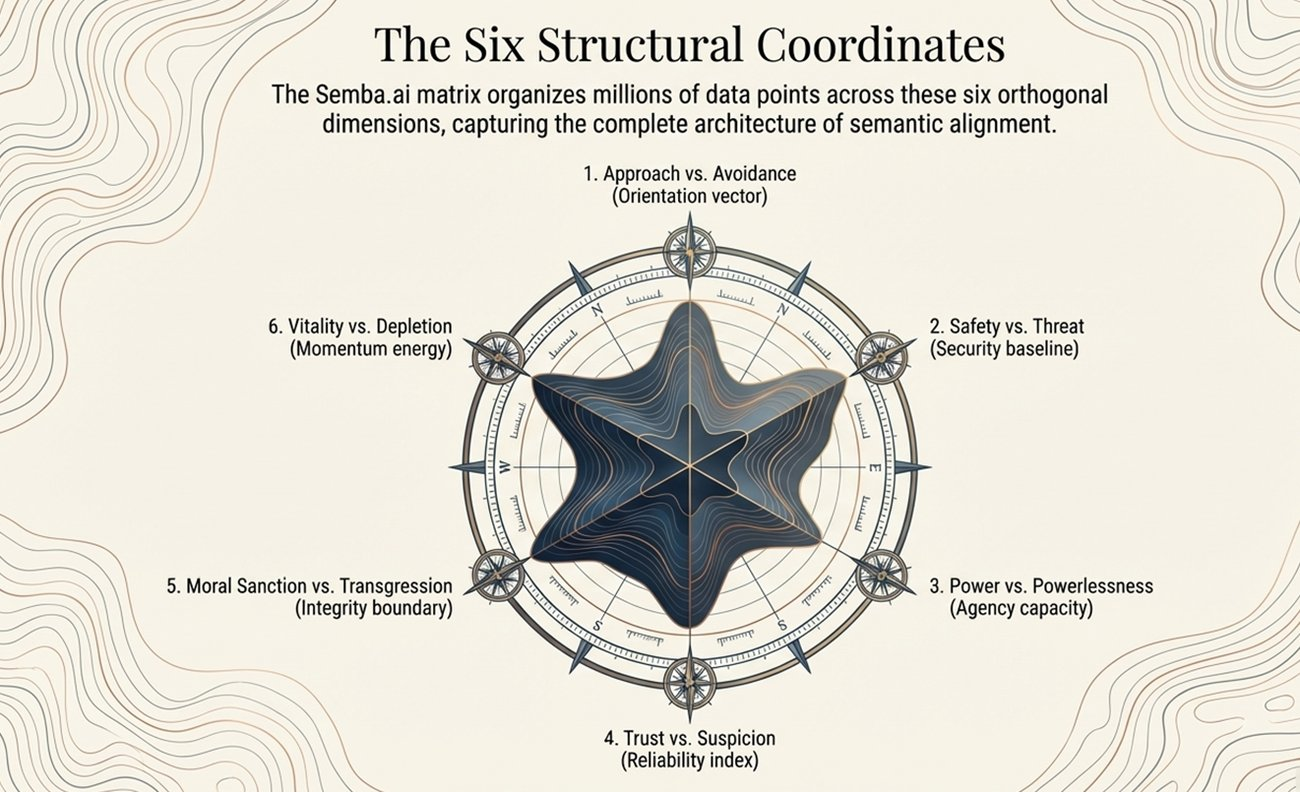
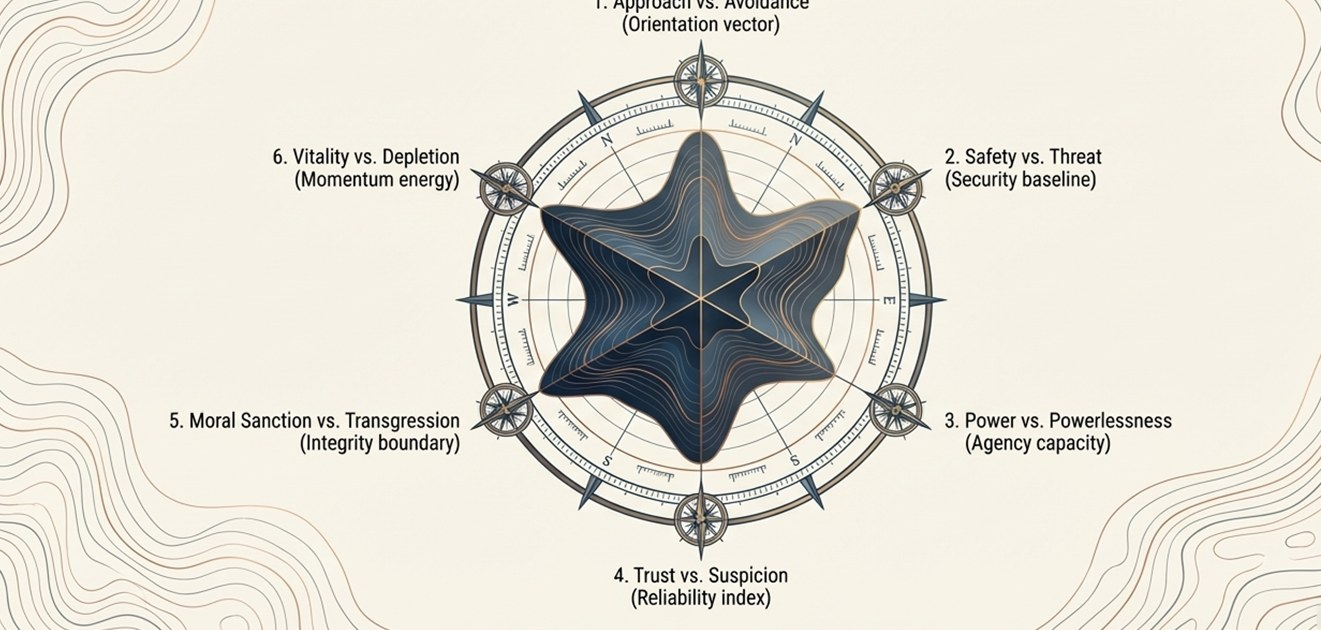
Add files via upload

diff --git a/privacy.html b/privacy.html
@@ -6,9 +6,6 @@
 <title>Privacy Statement | Cognitif Group Limited</title>
 <meta name="description" content="Cognitif Group Limited's privacy statement.">
 <link rel="icon" href="assets/img/logo.png">
-<link rel="preconnect" href="https://fonts.googleapis.com">
-<link rel="preconnect" href="https://fonts.gstatic.com" crossorigin>
-<link href="https://fonts.googleapis.com/css2?family=Fraunces:opsz,wght@9..144,500;9..144,600&family=Inter:wght@400;500;600;700&display=swap" rel="stylesheet">
 <link rel="stylesheet" href="assets/css/style.css">
 </head>
 <body>
@@ -36,64 +33,35 @@
     </div>
   </header>
   <section class="hero hero--tight">
+    <div class="hero-texture" aria-hidden="true"></div>
     <div class="wrap hero-inner">
       <h1>Privacy Statement</h1>
-      <p class="meta-line">Last updated: [insert date]</p>
+      <p class="meta-line">Last updated: 4 July 2026</p>
     </div>
   </section>
 
   <section>
     <div class="wrap legal">
-      <div class="notice">
-        <strong>Before publishing:</strong> replace the [insert date] placeholder above, and confirm the retention and cookie sections below once those decisions are finalised.
-      </div>
-
       <h2>1. Who we are</h2>
-      <p>Cognitif Group Limited ("Cognitif Group", "we", "us") is the data controller for personal data collected through this website and our services. We are a company registered in England &amp; Wales, Company No. 17154680, registered office 128 City Road, London, United Kingdom, EC1V 2NX.</p>
-      <p>Cognitif Group is registered with the Information Commissioner's Office (ICO) under registration number ZC 173064.</p>
+      <p>Cognitif Group Limited ("Cognitif Group", "we", "us") is a company registered in England &amp; Wales, Company No. 17154680, registered office 128 City Road, London, United Kingdom, EC1V 2NX. We are registered with the Information Commissioner's Office (ICO) under registration number ZC 173064.</p>
 
-      <h2>2. Legitimate use</h2>
-      <p><strong>Lawful basis.</strong> Where we rely on legitimate interests as our lawful basis under UK GDPR Article 6(1)(f), we have assessed that our interest in operating and improving our services is not overridden by the interests or fundamental rights of the individuals concerned. Where we process personal data under a contract, with consent, or to meet a legal obligation, we rely on the corresponding basis under Article 6 instead.</p>
-      <p><strong>Legitimate use of our services.</strong> Our services are built to produce aggregate, population-level measurement, not to identify, profile, or make decisions about specific individuals. Clients and users may only use our services for lawful, legitimate purposes consistent with this design, and must not attempt to use them, or combine their output with other data, to re-identify or single out an individual.</p>
+      <h2>2. This website does not collect personal data</h2>
+      <p>This website does not use cookies, does not run analytics or tracking scripts, and does not load fonts or other resources from third-party services. It does not use forms. No personal data is collected, stored, or transmitted by this website.</p>
+      <p>If you choose to contact us by phone or email using the details on this site, that exchange happens directly between you and us through your own phone or email provider, on the terms of that provider &mdash; it is not something this website collects or stores.</p>
 
-      <h2>3. What data we collect</h2>
-      <ul>
-        <li>Contact details you give us directly: name, email address, organisation, and the content of your message.</li>
-        <li>Technical data collected automatically when you visit this website: IP address, browser type, device type, and pages visited.</li>
-      </ul>
-      <p>We do not seek to collect special category data (as defined by UK GDPR Article 9) through this website, and ask that you do not send us any in general correspondence.</p>
+      <h2>3. No sharing, no international transfers</h2>
+      <p>Because this website does not collect personal data, none is shared with any third party, and none is transferred outside the UK.</p>
 
-      <h2>4. How we use your data</h2>
-      <ul>
-        <li>To respond to enquiries and correspondence.</li>
-        <li>To operate, secure, and improve this website.</li>
-        <li>To meet our legal and regulatory obligations.</li>
-        <li>To provide our services, under the terms of the relevant client agreement.</li>
-      </ul>
+      <h2>4. Legitimate use of our services</h2>
+      <p>Our services are built to produce aggregate, population-level measurement, not to identify, profile, or make decisions about specific individuals. Clients and users may only use our services for lawful, legitimate purposes consistent with this design, and must not attempt to use them, or combine their output with other data, to re-identify or single out an individual.</p>
 
-      <h2>5. Who we share it with</h2>
-      <p>We do not sell personal data. We may share it with service providers who process data on our behalf, professional advisers, and regulators or law enforcement where we are legally required to do so. A current list of sub-processors is available on request at <a href="mailto:[email redacted]">[email redacted]</a>.</p>
+      <h2>5. Your rights</h2>
+      <p>If you contact us directly and want to know what we hold about that correspondence, or want it corrected or deleted, email <a href="mailto:[email redacted]">[email redacted]</a>. You also have the right to complain to the Information Commissioner's Office: <a href="https://ico.org.uk/make-a-complaint/" target="_blank" rel="noopener">ico.org.uk/make-a-complaint</a>, or by telephone on [phone redacted].</p>
 
-      <h2>6. International transfers</h2>
-      <p>Where any of our service providers process data outside the UK or the European Economic Area, we take steps to ensure an appropriate safeguard is in place before the transfer takes place.</p>
-
-      <h2>7. Cookies and analytics</h2>
-      <p>[Insert specific cookie names, purposes, and durations once analytics tooling is finalised.]</p>
-
-      <h2>8. Retention</h2>
-      <p>We keep personal data only for as long as necessary for the purpose it was collected for, or as required by law. [Insert specific retention periods once finalised.]</p>
-
-      <h2>9. Your rights</h2>
-      <p>Under UK GDPR, you have the right to: request access to your personal data; request correction of inaccurate data; request erasure; object to or restrict certain processing; request data portability; and withdraw consent where consent is the basis for processing. To exercise any of these rights, contact us at <a href="mailto:[email redacted]">[email redacted]</a>.</p>
-      <p>You also have the right to complain to the Information Commissioner's Office: <a href="https://ico.org.uk/make-a-complaint/" target="_blank" rel="noopener">ico.org.uk/make-a-complaint</a>, or by telephone on [phone redacted].</p>
-
-      <h2>10. Children</h2>
-      <p>Our website and services are directed at businesses and professionals. We do not knowingly collect personal data from children.</p>
-
-      <h2>11. Changes to this statement</h2>
+      <h2>6. Changes to this statement</h2>
       <p>We may update this statement from time to time. The date at the top of this page shows when it was last revised.</p>
 
-      <h2>12. Contact us</h2>
+      <h2>7. Contact us</h2>
       <p>Cognitif Group Limited, 128 City Road, London, United Kingdom, EC1V 2NX. Phone: [phone redacted]. Email: <a href="mailto:[email redacted]">[email redacted]</a>.</p>
     </div>
   </section>
@@ -103,7 +71,6 @@
       <div class="footer-grid">
         <div>
           <p class="footer-brand">Cognitif Group Limited</p>
-          <p>128 City Road<br>London, United Kingdom<br>EC1V 2NX</p>
           <p>Company No. 17154680, registered in England &amp; Wales.</p>
         </div>
         <div>

diff --git a/technology.html b/technology.html
@@ -6,9 +6,6 @@
 <title>Technology | Cognitif Group Limited</title>
 <meta name="description" content="The four-layer architecture behind Cognitif Group's Semantic Bathymetry™ Platform.">
 <link rel="icon" href="assets/img/logo.png">
-<link rel="preconnect" href="https://fonts.googleapis.com">
-<link rel="preconnect" href="https://fonts.gstatic.com" crossorigin>
-<link href="https://fonts.googleapis.com/css2?family=Fraunces:opsz,wght@9..144,500;9..144,600&family=Inter:wght@400;500;600;700&display=swap" rel="stylesheet">
 <link rel="stylesheet" href="assets/css/style.css">
 </head>
 <body>
@@ -36,6 +33,7 @@
     </div>
   </header>
   <section class="hero hero--tight">
+    <div class="hero-texture" aria-hidden="true"></div>
     <div class="wrap hero-inner">
       <span class="eyebrow">Architecture</span>
       <h1>How the platform is built</h1>
@@ -44,14 +42,6 @@
   </section>
 
   <section>
-    <div class="wrap">
-      <figure class="diagram">
-        <img src="assets/img/layer-pipeline.jpg" alt="Four-layer architecture diagram: Layer 1 Petalyx (data capture and interface), Layer 2 Ontologos (ingestion, scrubbing and NLP anchoring), Layer 3 Semba (the master datamodel and network), Layer 4 Insightvault (enterprise visualisation).">
-      </figure>
-    </div>
-  </section>
-
-  <section class="section-alt">
     <div class="wrap">
       <div class="grid grid-3">
         <div class="card">
@@ -73,16 +63,13 @@
     </div>
   </section>
 
-  <section>
+  <section class="section-alt">
     <div class="wrap">
       <div class="section-head">
         <span class="eyebrow">Layer 4</span>
         <h2>Insightvault &mdash; the chart room.</h2>
         <p class="slate">Enterprise-grade visualisation. Translates the underlying topology into dashboards for leadership teams, aggregating individual coordinates into population-level views.</p>
       </div>
-      <figure class="diagram">
-        <img src="assets/img/chartroom.jpg" alt="Illustration of an enterprise dashboard interface showing charts and a terrain visualisation, labelled Insightvault, The Chart Room.">
-      </figure>
     </div>
   </section>
 
@@ -91,7 +78,6 @@
       <div class="footer-grid">
         <div>
           <p class="footer-brand">Cognitif Group Limited</p>
-          <p>128 City Road<br>London, United Kingdom<br>EC1V 2NX</p>
           <p>Company No. 17154680, registered in England &amp; Wales.</p>
         </div>
         <div>

diff --git a/assets/css/style.css b/assets/css/style.css
@@ -2,7 +2,6 @@
 
 :root{
   --navy:      #10243F;
-  --navy-deep: #0D1B4B;
   --navy-line: #2C4568;
   --coral:     #D4785F;
   --coral-deep:#A8532F;
@@ -15,8 +14,8 @@
   --line:      #DEDBCE;
   --radius:    2px;
 
-  --font-display: "Fraunces", "Cambria", Georgia, serif;
-  --font-body: "Inter", "Calibri", Arial, sans-serif;
+  --font-display: Georgia, "Times New Roman", serif;
+  --font-body: Arial, Helvetica, sans-serif;
 
   --maxw: 1080px;
 }
@@ -140,7 +139,7 @@ hr.rule{ border:none; border-top: 1px solid var(--line); margin: 2em 0; }
 
 /* ---------- Navy panel (problem / solution / IP) ---------- */
 .panel-navy{
-  background: var(--navy-deep);
+  background: var(--navy);
   color: #F2F3FA;
   padding: 44px 40px;
   border-radius: var(--radius);

diff --git a/about.html b/about.html
@@ -6,9 +6,6 @@
 <title>About Us | Cognitif Group Limited</title>
 <meta name="description" content="About Cognitif Group Limited.">
 <link rel="icon" href="assets/img/logo.png">
-<link rel="preconnect" href="https://fonts.googleapis.com">
-<link rel="preconnect" href="https://fonts.gstatic.com" crossorigin>
-<link href="https://fonts.googleapis.com/css2?family=Fraunces:opsz,wght@9..144,500;9..144,600&family=Inter:wght@400;500;600;700&display=swap" rel="stylesheet">
 <link rel="stylesheet" href="assets/css/style.css">
 </head>
 <body>
@@ -36,6 +33,7 @@
     </div>
   </header>
   <section class="hero hero--tight">
+    <div class="hero-texture" aria-hidden="true"></div>
     <div class="wrap hero-inner">
       <h1>About Us</h1>
       <p class="lede" style="max-width:760px;">Petalyx&trade; and the Ontologos data pipeline have been engineered to protect information, respect privacy and support responsible AI. Our governance framework follows internationally recognised standards, including ISO/IEC 27001, ISO/IEC 27701 and ISO/IEC 42001, providing a structured path towards independent certification and regulatory compliance with all aspects of UK GDPR.</p>
@@ -82,7 +80,6 @@
       <div class="footer-grid">
         <div>
           <p class="footer-brand">Cognitif Group Limited</p>
-          <p>128 City Road<br>London, United Kingdom<br>EC1V 2NX</p>
           <p>Company No. 17154680, registered in England &amp; Wales.</p>
         </div>
         <div>

diff --git a/petalyx.html b/petalyx.html
@@ -6,9 +6,6 @@
 <title>Petalyx™ | Cognitif Group Limited</title>
 <meta name="description" content="Petalyx™, a patent-pending process, registered design, and trademark of Cognitif Group Limited.">
 <link rel="icon" href="assets/img/logo.png">
-<link rel="preconnect" href="https://fonts.googleapis.com">
-<link rel="preconnect" href="https://fonts.gstatic.com" crossorigin>
-<link href="https://fonts.googleapis.com/css2?family=Fraunces:opsz,wght@9..144,500;9..144,600&family=Inter:wght@400;500;600;700&display=swap" rel="stylesheet">
 <link rel="stylesheet" href="assets/css/style.css">
 </head>
 <body>
@@ -36,6 +33,7 @@
     </div>
   </header>
   <section class="hero hero--tight">
+    <div class="hero-texture" aria-hidden="true"></div>
     <div class="wrap hero-inner">
       <span class="eyebrow">The capture layer</span>
       <h1>Petalyx&trade;</h1>
@@ -71,7 +69,6 @@
       <div class="footer-grid">
         <div>
           <p class="footer-brand">Cognitif Group Limited</p>
-          <p>128 City Road<br>London, United Kingdom<br>EC1V 2NX</p>
           <p>Company No. 17154680, registered in England &amp; Wales.</p>
         </div>
         <div>

diff --git a/semantic-bathymetry.html b/semantic-bathymetry.html
@@ -6,9 +6,6 @@
 <title>Semantic Bathymetry™ | Cognitif Group Limited</title>
 <meta name="description" content="Semantic Bathymetry™, a trademark of Cognitif Group Limited.">
 <link rel="icon" href="assets/img/logo.png">
-<link rel="preconnect" href="https://fonts.googleapis.com">
-<link rel="preconnect" href="https://fonts.gstatic.com" crossorigin>
-<link href="https://fonts.googleapis.com/css2?family=Fraunces:opsz,wght@9..144,500;9..144,600&family=Inter:wght@400;500;600;700&display=swap" rel="stylesheet">
 <link rel="stylesheet" href="assets/css/style.css">
 </head>
 <body>
@@ -36,6 +33,7 @@
     </div>
   </header>
   <section class="hero hero--tight">
+    <div class="hero-texture" aria-hidden="true"></div>
     <div class="wrap hero-inner">
       <span class="eyebrow">The discipline</span>
       <h1>Semantic Bathymetry&trade;</h1>
@@ -91,7 +89,6 @@
       <div class="footer-grid">
         <div>
           <p class="footer-brand">Cognitif Group Limited</p>
-          <p>128 City Road<br>London, United Kingdom<br>EC1V 2NX</p>
           <p>Company No. 17154680, registered in England &amp; Wales.</p>
         </div>
         <div>

diff --git a/index.html b/index.html
@@ -6,9 +6,6 @@
 <title>Home | Cognitif Group Limited</title>
 <meta name="description" content="Cognitif Group Limited, developer of Semantic Bathymetry™ and Petalyx™.">
 <link rel="icon" href="assets/img/logo.png">
-<link rel="preconnect" href="https://fonts.googleapis.com">
-<link rel="preconnect" href="https://fonts.gstatic.com" crossorigin>
-<link href="https://fonts.googleapis.com/css2?family=Fraunces:opsz,wght@9..144,500;9..144,600&family=Inter:wght@400;500;600;700&display=swap" rel="stylesheet">
 <link rel="stylesheet" href="assets/css/style.css">
 </head>
 <body>
@@ -106,7 +103,6 @@
       <div class="footer-grid">
         <div>
           <p class="footer-brand">Cognitif Group Limited</p>
-          <p>128 City Road<br>London, United Kingdom<br>EC1V 2NX</p>
           <p>Company No. 17154680, registered in England &amp; Wales.</p>
         </div>
         <div>

diff --git a/README.md b/README.md
@@ -1,34 +1,22 @@
 # Cognitif Group Limited — website
 
 Static site: Home, Semantic Bathymetry™, Petalyx™, Technology, About Us, Privacy Statement.
-Plain HTML/CSS/JS, no build step, no framework. Deploys to Vercel as-is.
+Plain HTML/CSS/JS, no build step, no framework, no external font loading, no analytics.
 
-## Before you publish
-Open `privacy.html` and fill in `[insert date]` near the top, plus the cookie and
-retention sections once those are decided.
+## What changed in this version
+- Removed Google Fonts — system fonts only (Georgia / Arial), same everywhere.
+- Unified the two shades of navy into one.
+- Removed the two images (layer pipeline, chart room) that had ".ai" suffixes baked into
+  the picture itself — replaced with plain HTML cards. Cropped the six-coordinates image
+  to remove its baked-in "Semba.ai" subtitle.
+- Rewrote the Privacy Statement to state what you told me is actually true: this site
+  collects no personal data, shares nothing, transfers nothing internationally. Removed
+  the placeholder brackets and the leftover "before publishing" note that should never
+  have shipped.
+- Removed the duplicated address/company number from the footer on the About page (kept
+  it once, in the body).
+- Added the topographic background to every page's hero, not just Home.
 
-One editorial call worth knowing about: on Home and About, I kept the "no personal
-data / no consent mechanism" claims from your pitch deck copy, but reworded the
-"no data controller liability" line to "designed to contain no personal data" rather
-than asserting the liability conclusion outright — that's a legal conclusion, not a
-design fact, and you've got the ICO Innovation Advice case open on exactly this
-question. Worth a look before publishing regardless of what I did with it.
-
-## Deploying to Vercel (free tier)
-Same as before: push this folder to your GitHub repo (Add file → Upload files,
-overwrite everything), Vercel redeploys automatically. If the domain's already
-connected, no further Vercel/GoDaddy steps are needed.
-
-## File structure
-```
-index.html                   Home
-semantic-bathymetry.html     Semantic Bathymetry™
-petalyx.html                 Petalyx™
-technology.html               Technology (four-layer architecture)
-about.html                   About Us + IP
-privacy.html                 Privacy Statement
-assets/css/style.css         All styling
-assets/js/main.js            Mobile nav toggle only
-assets/img/                  Logo, favicon, and diagrams from your materials
-vercel.json                  Caching + security headers
-```
+## Deploying
+Push this folder to your GitHub repo (Add file → Upload files, overwrite everything).
+Vercel redeploys automatically. Domain and DNS are already configured per your last steps.